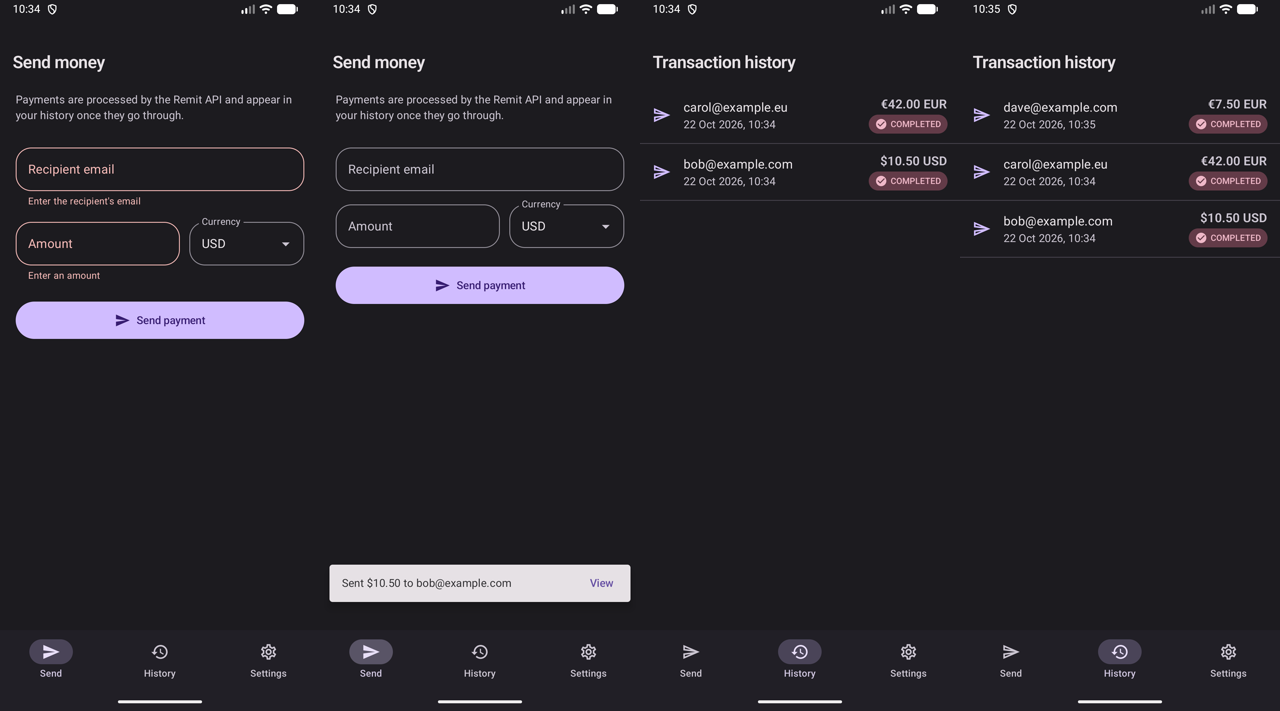
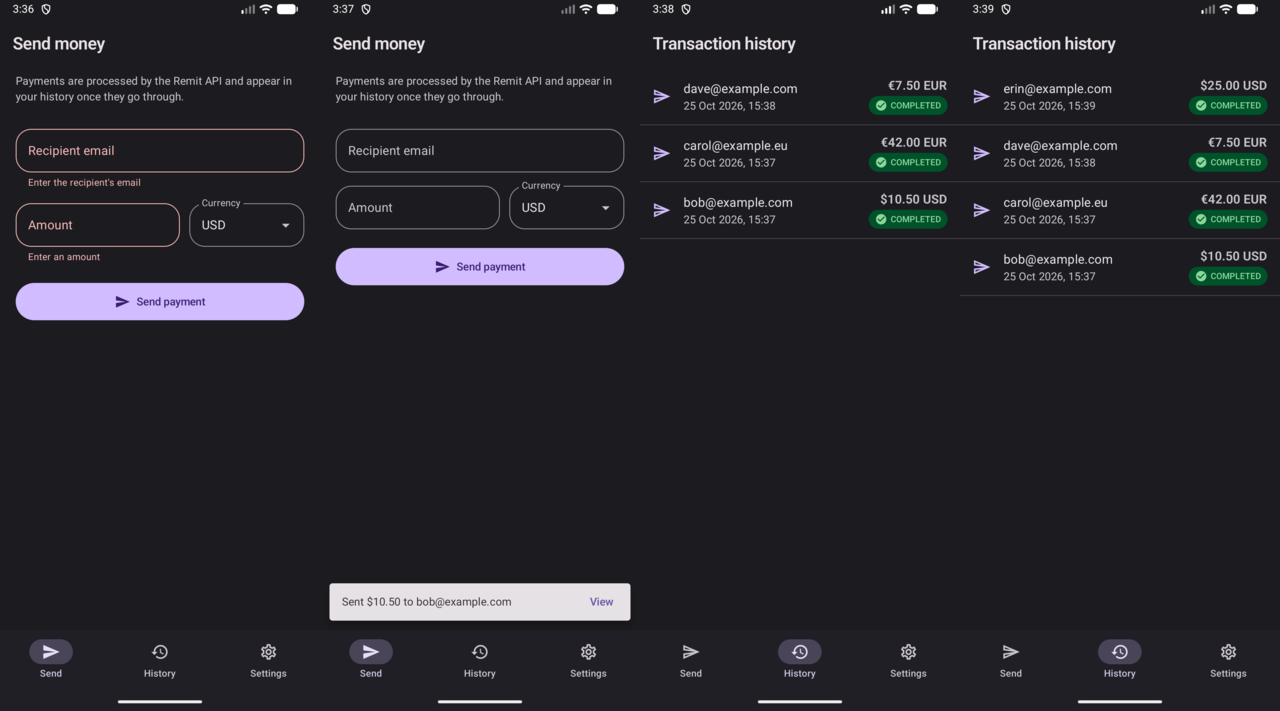
docs: add a reviewer's guide and refresh the README numbers and screenshot
docs/REVIEWING.md maps each line of the brief to its code and tests, gives a
reading order, and lists the template parts reviewers can skip. The README
gains an "In brief" summary, current test counts and coverage, a correct
range for the challenge commits, and a screenshot of the current UI.

diff --git a/docs/REVIEWING.md b/docs/REVIEWING.md
@@ -1,0 +1,149 @@
+# Reviewer's guide
+
+A map of the challenge for reviewers: where each line of the brief is implemented and tested,
+the order to read the code in, and the parts of the repository you can skip. The
+[README](../README.md) has the full explanation; this page is for finding things fast.
+
+## In five minutes
+
+- **Watch it:** the [demo video](images/remit-demo.mp4) (82 s), or the
+  [screenshots](images/remit-screens.png).
+- **Run it:** three terminals, no Firebase account needed.
+
+  ```bash
+  make emulators            # Firebase Auth + Firestore emulators (UI on http://localhost:4000)
+  make backend-emulated     # the API on http://localhost:8085 (Swagger UI at /swagger)
+  make mobile               # build, install, and launch the Android debug app
+  ```
+
+- **Read it:** the twelve files under [Follow one payment](#follow-one-payment-through-the-code)
+  carry the whole feature. Everything else supports them or comes from the template.
+
+## The brief, line by line
+
+"Met, differently" rows are deliberate; the README explains each one under
+[Where this differs from the brief](../README.md#where-this-differs-from-the-brief).
+
+| The brief asks for | Status | Implemented in | Proved by |
+|---|---|---|---|
+| Form: recipient email, numeric amount, currency dropdown (USD, EUR) | Met | `SendPaymentContent` and `CurrencyPicker` in [`SendPaymentScreen.kt`][send-screen] | [`SendPaymentViewModelTest`][send-vm-test], Appium |
+| Validate in the shared KMP module (valid email, amount > 0, supported currency) | Met | [`PaymentValidator.kt`][validator] (shared), amounts parsed exactly by [`DecimalAmount`][decimal] into [`Money`][money] | [`PaymentValidatorTest`][validator-test], 65 cases in [`payment-validation-cases.json`][cases] that the app and the backend both run |
+| Call the API, then save the transaction to Firestore | Met, differently: the server saves it | [`SendPaymentUseCase`][use-cases] → [`KtorPaymentsApi`][api] → [`paymentRoutes`][routes] → [`PaymentService`][service] → [`FirestorePaymentStore`][store] (one transaction) | Cucumber "A valid payment is processed and saved to Firestore", [`FirebaseEmulatorTest`][emulator-test] |
+| Success and error messages | Met | Snackbars in `SendPaymentScreen`; wording in [`PaymentMessages.kt`][messages] | [`SendPaymentViewModelTest`][send-vm-test] |
+| History: scrollable list with recipient, amount, currency, timestamp | Met | `PaymentHistoryContent` in [`PaymentHistoryScreen.kt`][history-screen] (a `LazyColumn` keyed by payment id) | [`PaymentHistoryViewModelTest`][history-vm-test], Appium |
+| Real-time updates with a snapshot listener | Met | [`FirestorePaymentHistorySource`][history-source] (`callbackFlow`, listener removed in `awaitClose`), collected while visible by [`PaymentHistoryViewModel`][history-vm] | Cucumber "History updates in real time"; demo step 5 |
+| `POST /payments` taking `{recipientEmail, amount, currency}`, returning the payment or an error | Met, differently: `POST /api/v1/payments`, auth and an `Idempotency-Key` required, amount read as an exact decimal | [`PaymentRoutes.kt`][routes], [`PaymentDto.kt`][dto], [OpenAPI spec][openapi] | [`PaymentRoutesTest`][routes-test], [`OpenApiContractTest`][contract-test] |
+| Host the API locally, mocked, or on a free service | Met: Ktor, locally | [`backend/`](../backend) (`make backend-emulated`) | |
+| `shared` module: models, API client, Firebase logic | Met | [`mobile/shared`](../mobile/shared/src/commonMain/kotlin/com/asterixorobelix/remit/shared) | |
+| `androidApp` module: UI and Firebase setup | Met, differently: the Compose Multiplatform UI is in `composeApp`; `androidApp` holds the entry point and Firebase setup | [`mobile/composeApp`](../mobile/composeApp/src/commonMain/kotlin/com/asterixorobelix/remit), [`mobile/androidApp`](../mobile/androidApp) | |
+| expect/actual for the Firebase SDK | Met | `expect fun firebaseBackendModule` in [`FirebaseBackend.kt`][expect]; actuals for [Android][actual-android] (Firebase SDK), [iOS][actual-ios] and desktop ("not set up") | [`UnsupportedPlatformTest`][unsupported-test] |
+| Ktor in the shared module | Met | [`KtorPaymentsApi`][api] | [`KtorPaymentsApiTest`][api-test] (status and error mapping), [`PaymentDtosTest`][dtos-test] (parsing) |
+| Koin | Met | `paymentsModule()` in [`SharedModule.kt`][shared-module], app bindings in [`PaymentsModule.kt`][app-module] | [`PaymentsModuleTest`][module-test] |
+| Jetpack Compose UI | Met | Compose Multiplatform, Material 3, light and dark | |
+| BDD: 2-3 Cucumber scenarios | Met: 13 scenarios | [`send_payment.feature`][feature-send], [`transaction_history.feature`][feature-history]; steps in [`PaymentSteps.kt`][steps] | `make test-bdd` |
+| Unit tests: validation and API response parsing in `shared` | Met | [`mobile/shared/src/commonTest`](../mobile/shared/src/commonTest/kotlin/com/asterixorobelix/remit/shared) | `make test-mobile` |
+| Appium: send a payment and see it in history | Met | `sentPaymentAppearsInTransactionHistory` in [`SendPaymentUiTest.kt`][appium] | `make test-appium` |
+| JMeter: 5 concurrent users on `/payments`, response times | Met | [`perf/payments.jmx`](../perf/payments.jmx) (create and replay samplers, latency assertions) | `make test-perf`; results in the README |
+| README: setup, architecture, running the app and tests | Met | [README](../README.md) | |
+| Demo script or video | Met | [Demo script](DEMO.md), [video](images/remit-demo.mp4) | |
+| KMP architecture and cross-platform potential | Met | README, [Kotlin Multiplatform and its cross-platform potential](../README.md#kotlin-multiplatform-and-its-cross-platform-potential) | |
+
+## Follow one payment through the code
+
+Read these in order; each step calls the next.
+
+1. [`SendPaymentScreen.kt`][send-screen]: the form. `SendPaymentContent` is stateless (state in,
+   events out) and has previews; `SendPaymentScreen` wires it to the ViewModel and shows snackbars.
+2. [`SendPaymentViewModel.kt`][send-vm]: keeps what the user typed in `SavedStateHandle` and calls
+   the use case from `submit()`. No business logic.
+3. [`PaymentUseCases.kt`][use-cases] (shared): `SendPaymentUseCase` validates, then sends with one
+   idempotency key per payment ([`IdempotencyKeys.kt`][keys]), saved to SQLDelight before the
+   request so a crash cannot pay twice.
+4. [`PaymentValidator.kt`][validator] (shared): every rule, one error per field.
+5. [`PaymentsApi.kt`][api] (shared): `KtorPaymentsApi` posts to `/api/v1/payments` and maps each
+   status to a result. [`PaymentRepositoryImpl.kt`][repository] adds the ID token and refreshes
+   it once on a 401.
+6. [`PaymentRoutes.kt`][routes] (backend): the order of checks (configured, signed in, key present,
+   body valid), then the service.
+7. [`PaymentService.kt`][service] and [`FirestorePaymentStore.kt`][store]: validate again, then write
+   the payment and its idempotency record in one Firestore transaction.
+8. [`firestore.rules`][rules]: users read only their own payments; no client writes.
+9. [`FirestorePaymentHistorySource.kt`][history-source] (shared, Android): the snapshot listener.
+10. [`PaymentHistoryViewModel.kt`][history-vm]: `stateIn(WhileSubscribed(5 s))`, so the listener
+    stops when History is not on screen.
+11. [`PaymentHistoryScreen.kt`][history-screen]: the list.
+12. [`FirebaseBackend.kt`][expect] and its [Android actual][actual-android]: the expect/actual seam
+    that keeps the Firebase SDK out of common code.
+
+## What you can skip
+
+Remit is an instance of my app template ([docs/TEMPLATE.md](TEMPLATE.md)). The template parts
+work and are tested, but none of them is needed to judge the brief.
+
+| Path | What it is |
+|---|---|
+| `mobile/fastlane`, `mobile/iosApp`, `mobile/store_assets`, `.github/workflows` | Store delivery, the iOS shell, and CI from the template |
+| `setup.sh`, `bump-version.sh`, `app.properties`, `APP_CHECKLIST.md`, `RELEASE_CHECKLIST.md` | Creating and releasing an app from the template |
+| `presentation/feedback`, `presentation/developer`, `presentation/webview`, `presentation/forceupdate` | Template screens reached from Settings (feedback, developer options, legal pages) or remote config |
+| `ui/components`, `gallery/` | The template's component kit and its desktop gallery |
+| `AGENTS.md`, `CLAUDE.md`, `.claude/`, `.codex/`, `scripts/agent-hook.sh` | Guardrails for AI coding agents |
+| `scripts/test-initializer.sh`, `scripts/create-feature.sh`, `scripts/test-feature-generator.sh` | Template tooling and its tests |
+
+To see only the challenge work, start after the commits that set up the template:
+
+```bash
+git log --oneline 53b7cfa..main                 # every challenge commit
+git diff --stat 53b7cfa..main -- mobile/shared backend/src firebase e2e perf testdata
+```
+
+## Checking a claim
+
+| Claim | Fastest check |
+|---|---|
+| A retried payment is stored once | Demo step 9 (curl twice with one key), or `make test-backend-emulated` (ten concurrent requests, one payment) |
+| The app and the server validate alike | `make test-mobile test-backend`: both run `testdata/payment-validation-cases.json` |
+| Users cannot read others' payments or write any | `make test-rules` |
+| History is live | Demo step 5: add a document in the Emulator Suite UI with History open |
+| A crash mid-send does not pay twice | Demo step 8, or the Cucumber scenario "A payment interrupted by the app closing" |
+| Coverage floors | `make coverage` (shared 90%, app 80%, backend 80%) |
+| Every CI gate | `make check` |
+
+[send-screen]: ../mobile/composeApp/src/commonMain/kotlin/com/asterixorobelix/remit/presentation/payments/send/SendPaymentScreen.kt
+[send-vm]: ../mobile/composeApp/src/commonMain/kotlin/com/asterixorobelix/remit/presentation/payments/send/SendPaymentViewModel.kt
+[send-vm-test]: ../mobile/composeApp/src/commonTest/kotlin/com/asterixorobelix/remit/presentation/payments/SendPaymentViewModelTest.kt
+[messages]: ../mobile/composeApp/src/commonMain/kotlin/com/asterixorobelix/remit/presentation/payments/PaymentMessages.kt
+[history-screen]: ../mobile/composeApp/src/commonMain/kotlin/com/asterixorobelix/remit/presentation/payments/history/PaymentHistoryScreen.kt
+[history-vm]: ../mobile/composeApp/src/commonMain/kotlin/com/asterixorobelix/remit/presentation/payments/history/PaymentHistoryViewModel.kt
+[history-vm-test]: ../mobile/composeApp/src/commonTest/kotlin/com/asterixorobelix/remit/presentation/payments/PaymentHistoryViewModelTest.kt
+[app-module]: ../mobile/composeApp/src/commonMain/kotlin/com/asterixorobelix/remit/di/PaymentsModule.kt
+[module-test]: ../mobile/composeApp/src/commonTest/kotlin/com/asterixorobelix/remit/di/PaymentsModuleTest.kt
+[validator]: ../mobile/shared/src/commonMain/kotlin/com/asterixorobelix/remit/shared/domain/validation/PaymentValidator.kt
+[validator-test]: ../mobile/shared/src/commonTest/kotlin/com/asterixorobelix/remit/shared/domain/validation/PaymentValidatorTest.kt
+[decimal]: ../mobile/shared/src/commonMain/kotlin/com/asterixorobelix/remit/shared/domain/model/DecimalAmount.kt
+[money]: ../mobile/shared/src/commonMain/kotlin/com/asterixorobelix/remit/shared/domain/model/Money.kt
+[use-cases]: ../mobile/shared/src/commonMain/kotlin/com/asterixorobelix/remit/shared/domain/usecase/PaymentUseCases.kt
+[keys]: ../mobile/shared/src/commonMain/kotlin/com/asterixorobelix/remit/shared/domain/usecase/IdempotencyKeys.kt
+[api]: ../mobile/shared/src/commonMain/kotlin/com/asterixorobelix/remit/shared/data/remote/PaymentsApi.kt
+[api-test]: ../mobile/shared/src/commonTest/kotlin/com/asterixorobelix/remit/shared/data/remote/KtorPaymentsApiTest.kt
+[dtos-test]: ../mobile/shared/src/commonTest/kotlin/com/asterixorobelix/remit/shared/data/remote/PaymentDtosTest.kt
+[repository]: ../mobile/shared/src/commonMain/kotlin/com/asterixorobelix/remit/shared/data/PaymentRepositoryImpl.kt
+[shared-module]: ../mobile/shared/src/commonMain/kotlin/com/asterixorobelix/remit/shared/di/SharedModule.kt
+[expect]: ../mobile/shared/src/commonMain/kotlin/com/asterixorobelix/remit/shared/data/FirebaseBackend.kt
+[actual-android]: ../mobile/shared/src/androidMain/kotlin/com/asterixorobelix/remit/shared/data/FirebaseBackend.android.kt
+[actual-ios]: ../mobile/shared/src/iosMain/kotlin/com/asterixorobelix/remit/shared/data/FirebaseBackend.ios.kt
+[unsupported-test]: ../mobile/shared/src/commonTest/kotlin/com/asterixorobelix/remit/shared/data/UnsupportedPlatformTest.kt
+[history-source]: ../mobile/shared/src/androidMain/kotlin/com/asterixorobelix/remit/shared/data/history/FirestorePaymentHistorySource.kt
+[feature-send]: ../mobile/shared/src/desktopTest/resources/features/send_payment.feature
+[feature-history]: ../mobile/shared/src/desktopTest/resources/features/transaction_history.feature
+[steps]: ../mobile/shared/src/desktopTest/kotlin/com/asterixorobelix/remit/shared/bdd/PaymentSteps.kt
+[cases]: ../testdata/payment-validation-cases.json
+[routes]: ../backend/src/main/kotlin/com/asterixorobelix/remit/routes/PaymentRoutes.kt
+[routes-test]: ../backend/src/test/kotlin/com/asterixorobelix/remit/routes/PaymentRoutesTest.kt
+[contract-test]: ../backend/src/test/kotlin/com/asterixorobelix/remit/OpenApiContractTest.kt
+[dto]: ../backend/src/main/kotlin/com/asterixorobelix/remit/dto/PaymentDto.kt
+[openapi]: ../backend/src/main/resources/openapi/documentation.yaml
+[service]: ../backend/src/main/kotlin/com/asterixorobelix/remit/service/PaymentService.kt
+[store]: ../backend/src/main/kotlin/com/asterixorobelix/remit/service/FirestorePaymentStore.kt
+[emulator-test]: ../backend/src/test/kotlin/com/asterixorobelix/remit/service/FirebaseEmulatorTest.kt
+[rules]: ../firebase/firestore.rules
+[appium]: ../e2e/src/test/kotlin/com/asterixorobelix/remit/e2e/SendPaymentUiTest.kt

diff --git a/README.md b/README.md
@@ -9,6 +9,21 @@ exactly once and records it in Firestore. Built as a take-home challenge on top 
 
 [Demo video (82 s)](docs/images/remit-demo.mp4) · [Demo script](docs/DEMO.md)
 
+## In brief
+
+- **The brief:** every requirement is met, including the optional Appium test. Five are met
+  differently on purpose; [Where this differs from the brief](#where-this-differs-from-the-brief)
+  says why.
+- **Reviewing:** the [reviewer's guide](docs/REVIEWING.md) maps each line of the brief to its code
+  and tests, lists the twelve files to read in order, and says which template parts to skip.
+- **Run it:** `make emulators`, `make backend-emulated`, and `make mobile` in three terminals. No
+  Firebase account is needed ([details](#run-it)).
+- **Test it:** `make check` runs every CI gate; `make test-bdd`, `make test-appium`, and
+  `make test-perf` run Cucumber, Appium, and JMeter ([details](#tests)).
+- **Worth discussing:** the server, not the app, writes payments to Firestore; amounts are exact
+  decimals, never `Double`; one idempotency key per payment survives retries and crashes
+  ([Design decisions](#design-decisions)).
+
 ## What it does
 
 - **Send a payment.** Recipient email, amount, and a USD/EUR picker. The amount field accepts only
@@ -127,9 +142,9 @@ Each of these is deliberate; the reasons are under [Design decisions](#design-de
 
 | Layer | Command | What it proves | Where |
 |---|---|---|---|
-| Unit (shared) | `make test-mobile` | Money parsing, validation, idempotency keys, API client status mapping, repository, use cases: 75 tests, 94% line coverage (90% floor) | `mobile/shared/src/commonTest` |
-| Unit (app) | `make test-mobile` | ViewModels (Turbine), the History listener stopping when the screen is hidden, the Send form surviving process death, DataStore settings on a real file, the SQLDelight pending-payment store, formatting, retry policy, crash-report redaction, navigation graph: 104 tests; 85% merged line coverage (80% floor). `commonTest` runs on the desktop JVM and as Android host tests | `mobile/composeApp/src/*Test` |
-| Unit and route (backend) | `make test-backend` | Validator, service, routes, token verification, config: 62 tests, 83% line coverage (80% floor) | `backend/src/test` |
+| Unit (shared) | `make test-mobile` | Money parsing, validation, idempotency keys, API client status mapping, repository, use cases: 80 tests, 95% line coverage (90% floor) | `mobile/shared/src/commonTest` |
+| Unit (app) | `make test-mobile` | ViewModels (Turbine), the History listener stopping when the screen is hidden, the Send form surviving process death, DataStore settings on a real file, the SQLDelight pending-payment store, formatting, retry policy, crash-report redaction, navigation graph: 105 tests; 84% merged line coverage (80% floor). `commonTest` runs on the desktop JVM and as Android host tests | `mobile/composeApp/src/*Test` |
+| Unit and route (backend) | `make test-backend` | Validator, service, routes, token verification, config: 68 tests (4 of them need the emulators), 87% line coverage (80% floor) | `backend/src/test` |
 | Shared validation cases | runs with both of the above | 65 cases in one JSON file that the app and the server must both satisfy | `testdata/payment-validation-cases.json` |
 | BDD (Cucumber) | `make test-bdd` | 13 scenarios: payment processed and saved to Firestore (an in-memory fake), invalid input never sent, retry after a timeout pays once, edited details after a failure are a new payment, a payment interrupted by the app closing finished safely after reopening, history newest first, live updates, per-user isolation | `mobile/shared/src/desktopTest/resources/features` |
 | Firebase integration | `make test-backend-emulated` | The real Admin SDK against the emulators: ID token verification, the Firestore transaction, ten concurrent requests with one key create one payment | `backend/.../FirebaseEmulatorTest.kt` |
@@ -360,8 +375,9 @@ instead of breaking the list.
 ## Beyond the brief
 
 - **A maintained template, not a one-off.** I keep a full-stack template for my own apps, and
-  Remit is a real instance of it: the first commit is the template (`git diff template-base..main`
-  shows only the challenge work), the next removes its demo features, and the rest builds the app.
+  Remit is a real instance of it: the first commit is the template (tagged `template-base`), the
+  next three rename it to Remit and remove its demo features, and the rest builds the app
+  (`git log 53b7cfa..main` lists only the challenge work).
   See [docs/TEMPLATE.md](docs/TEMPLATE.md).
 - **CI/CD from that template.** Path-filtered GitHub Actions for backend, Android, iOS, and
   Fastlane; Semgrep and gitleaks; coverage floors plus 80% coverage on changed lines in pull
@@ -400,7 +416,7 @@ instead of breaking the list.
 | `testdata` | Validation cases shared by the app and the backend |
 | `e2e` | Appium UI tests |
 | `perf` | JMeter plan |
-| `docs` | [Demo script](docs/DEMO.md), [template overview](docs/TEMPLATE.md), workflow and release guides |
+| `docs` | [Reviewer's guide](docs/REVIEWING.md), [demo script](docs/DEMO.md), [template overview](docs/TEMPLATE.md), workflow and release guides |
 
 `make help` lists every command. Kotlin 2.3, Compose Multiplatform 1.10, AGP 9.1, Ktor 3.3,
 Koin 4.1, DataStore 1.2, Firebase Admin SDK 9; versions live in
